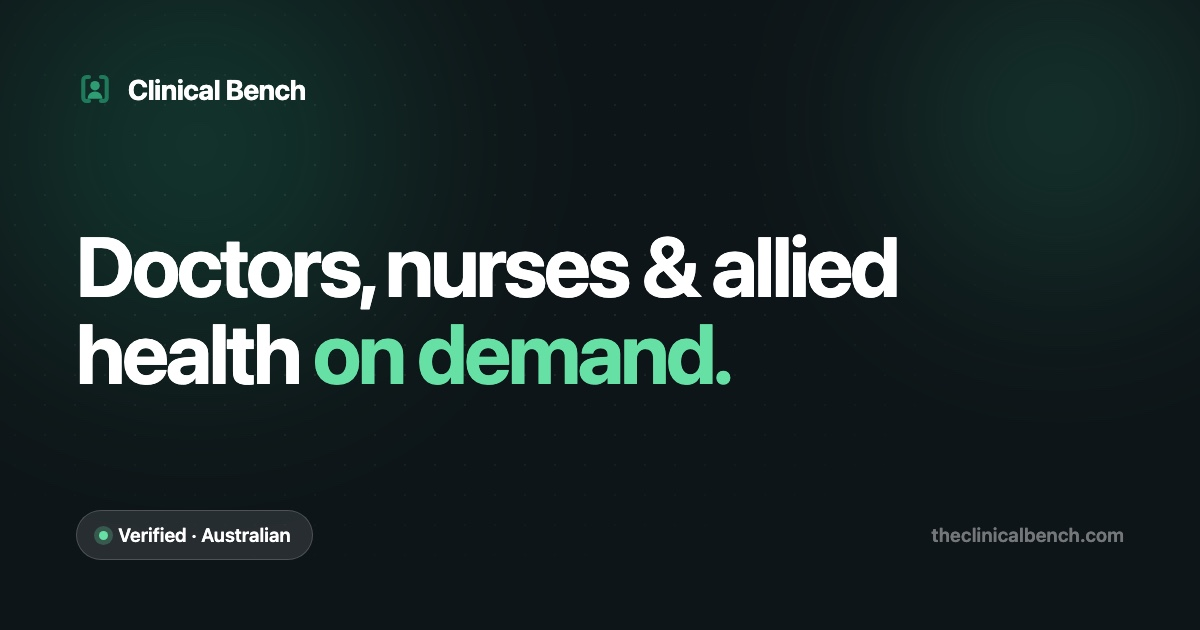
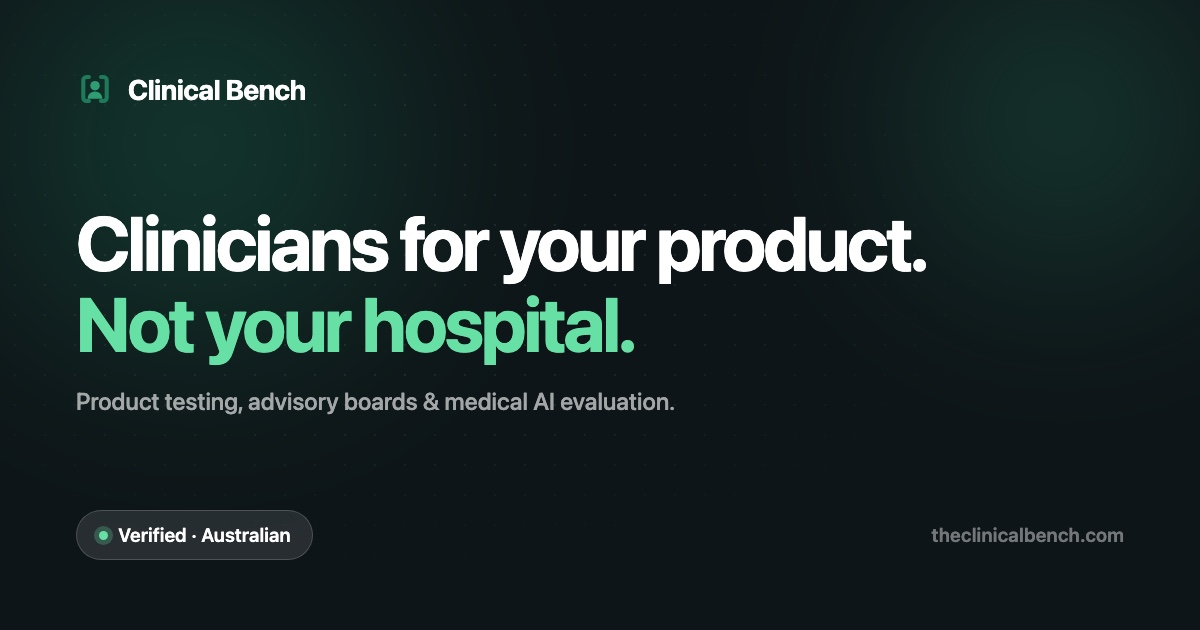
Rewrite share-card headline to rule out the hospital-staffing misread
"Doctors, nurses & allied health on demand" reads like a locum/agency
staffing service, which is the opposite of the brand's positioning
(commercial work, not clinical care). New headline names the actual
buyer relationship directly, plus a line of concrete examples.

Changed region(s): [[0.0617, 0.3317, 0.7708, 0.6635]]

diff --git a/clinicians/index.html b/clinicians/index.html
@@ -15,7 +15,7 @@
 <meta property="og:title" content="For clinicians | Clinical Bench">
 <meta property="og:description" content="Paid commercial work for Australian doctors, nurses and allied health professionals. Remote, flexible, on your terms.">
 <meta property="og:url" content="https://theclinicalbench.com/clinicians/">
-<meta property="og:image" content="https://theclinicalbench.com/assets/img/og.jpg?v=2">
+<meta property="og:image" content="https://theclinicalbench.com/assets/img/og.jpg?v=3">
 <meta name="twitter:card" content="summary_large_image">
 <link rel="preload" href="/assets/fonts/onest-latin-600-normal.woff2" as="font" type="font/woff2" crossorigin>
 <link rel="preload" href="/assets/fonts/onest-latin-700-normal.woff2" as="font" type="font/woff2" crossorigin>

diff --git a/index.html b/index.html
@@ -15,7 +15,7 @@
 <meta property="og:title" content="Clinical Bench · credentialled clinicians, on demand">
 <meta property="og:description" content="On-demand access to doctors, nurses and allied health for teams building healthcare products.">
 <meta property="og:url" content="https://theclinicalbench.com/">
-<meta property="og:image" content="https://theclinicalbench.com/assets/img/og.jpg?v=2">
+<meta property="og:image" content="https://theclinicalbench.com/assets/img/og.jpg?v=3">
 <meta property="og:image:width" content="1200">
 <meta property="og:image:height" content="630">
 <meta name="twitter:card" content="summary_large_image">
